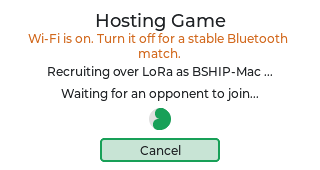
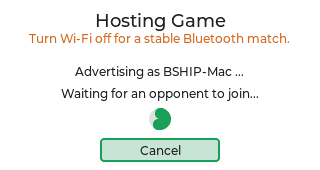
fix(ble): one-line Wi-Fi warning copy, BLE texts in screenshots, shrink join list only when warned

Changed region(s): [[0.0938, 0.1765, 0.9062, 0.2647], [0.125, 0.3824, 0.8438, 0.4706], [0.4375, 0.2941, 0.5625, 0.3529]]

diff --git a/src/view/screens/net_join_screen.cpp b/src/view/screens/net_join_screen.cpp
@@ -133,7 +133,7 @@ void NetJoinScreen::build_content(lv_obj_t* content) {
     // or two Battleship hosts are in range at a time.
     auto* list = lv_obj_create(content);
     lv_obj_remove_style_all(list);
-    lv_obj_set_size(list, LV_PCT(100), 76);  // 3 rows; leaves room for the Wi-Fi warning
+    lv_obj_set_size(list, LV_PCT(100), 100);
     lv_obj_align(list, LV_ALIGN_TOP_MID, 0, 28);
     lv_obj_set_flex_flow(list, LV_FLEX_FLOW_COLUMN);
     lv_obj_set_flex_align(list, LV_FLEX_ALIGN_START, LV_FLEX_ALIGN_CENTER, LV_FLEX_ALIGN_CENTER);
@@ -142,7 +142,8 @@ void NetJoinScreen::build_content(lv_obj_t* content) {
     ui->list = list;
 
     auto* empty = lv_label_create(content);
-    lv_label_set_text(empty, i18n::tr(view_model().net_using_lora()
+    lv_label_set_text(empty, i18n::tr(view_model().net_using_lora() &&
+                                              !viewmodel::BaseViewModel::net_wifi_warn_forced()
                                           ? i18n::StrId::NetJoinScanningLora
                                           : i18n::StrId::NetJoinScanningBle));
     lv_obj_set_style_text_font(empty, i18n::font_for_size(12), 0);
@@ -183,6 +184,15 @@ void NetJoinScreen::build_content(lv_obj_t* content) {
     lv_obj_add_event_cb(back_button, back_cb, LV_EVENT_CLICKED, &view_model());
     lv_group_add_obj(BaseScreen::shared_group(), back_button);
     BaseScreen::enable_arrow_focus_navigation(back_button);
+
+    // While the Wi-Fi warning is visible the list shrinks (3 rows) so the
+    // warning line never overlaps a peer row; otherwise it keeps 100 px.
+    reactive::observe_obj(
+        list, view_model().net_wifi_warn_subject(),
+        [](lv_observer_t* observer, lv_subject_t* subject) {
+            auto* target = lv_observer_get_target_obj(observer);
+            lv_obj_set_height(target, lv_subject_get_int(subject) ? 76 : 100);
+        });
 
     // The delete hook rides on the list container (always present).
     lv_obj_add_event_cb(list, list_delete_cb, LV_EVENT_DELETE, ui);

diff --git a/src/viewmodel/base_viewmodel.cpp b/src/viewmodel/base_viewmodel.cpp
@@ -922,10 +922,14 @@ lv_subject_t* BaseViewModel::net_wifi_warn_subject() {
     return net_wifi_warn_subject_.native();
 }
 
+bool BaseViewModel::net_wifi_warn_forced() {
+    const char* force = std::getenv("BATTLESHIP_FORCE_WIFI_WARN");
+    return force && force[0] == '1';
+}
+
 void BaseViewModel::net_refresh_wifi_warning(uint32_t now) {
     net_wifi_warn_last_ms_ = now;
-    const char* force = std::getenv("BATTLESHIP_FORCE_WIFI_WARN");
-    const bool forced = force && force[0] == '1';
+    const bool forced = net_wifi_warn_forced();
     const bool warn = (net_flow_ble_ && platform::wifi_connected()) || forced;
     const int32_t value = warn ? 1 : 0;
     if (net_wifi_warn_subject_.value() != value) {
@@ -982,7 +986,10 @@ void BaseViewModel::start_network_host() {
 
         const std::string advertised = std::string(battleship::net::kBleNamePrefix) + host_name;
         net_status_subject_.set(
-            i18n::trf(i18n::StrId::NetLoraHostingAs, advertised.c_str()).c_str());
+            i18n::trf(net_wifi_warn_forced() ? i18n::StrId::NetLobbyAdvertisingAs
+                                             : i18n::StrId::NetLoraHostingAs,
+                      advertised.c_str())
+                .c_str());
 
         ensure_net_poll_timer();
         net_refresh_wifi_warning(lv_tick_get());  // 0 on LoRa unless forced for screenshots
@@ -1039,7 +1046,8 @@ void BaseViewModel::start_network_join() {
         }
         net_lora_link_->start_scan(net_lora_now_ms());
         net_hosts_signature_ = 0;
-        net_status_subject_.set(i18n::tr(i18n::StrId::NetJoinScanningLora));
+        net_status_subject_.set(i18n::tr(net_wifi_warn_forced() ? i18n::StrId::NetJoinScanningBle
+                                                                : i18n::StrId::NetJoinScanningLora));
         ensure_net_poll_timer();
         net_refresh_wifi_warning(lv_tick_get());  // 0 on LoRa unless forced for screenshots
         net_hosts_dirty_subject_.set(net_hosts_dirty_subject_.value() + 1);

diff --git a/tests/test_i18n_catalog.cpp b/tests/test_i18n_catalog.cpp
@@ -202,10 +202,10 @@ TEST(I18nCatalog, BleConnectionLostHintDefinedInEveryLanguage) {
 TEST(I18nCatalog, WifiOnWarningDefinedInEveryLanguage) {
     i18n::set_language(Lang::EN);
     EXPECT_STREQ(i18n::tr(StrId::NetWifiOnWarning),
-                 "Wi-Fi is on. Turn it off for a stable Bluetooth match.");
+                 "Turn Wi-Fi off for a stable Bluetooth match.");
     i18n::set_language(Lang::JA);
     EXPECT_STREQ(i18n::tr(StrId::NetWifiOnWarning),
-                 "WiFiがオンです。オフにするとBluetooth対戦が安定します");
+                 "WiFiをオフにするとBluetooth対戦が安定します");
     i18n::set_language(Lang::ZH);
     EXPECT_STREQ(i18n::tr(StrId::NetWifiOnWarning), "WiFi已开启。关闭后蓝牙对战更稳定");
     i18n::set_language(Lang::EN);

diff --git a/src/i18n/strings_ja.cpp b/src/i18n/strings_ja.cpp
@@ -105,7 +105,7 @@ const Table kJapaneseTable = [] {
     t[static_cast<std::size_t>(StrId::NetErrorTitle)] = "通信エラー";
     t[static_cast<std::size_t>(StrId::NetErrorOkBackToTitle)] = "OK - タイトルへ";
     t[static_cast<std::size_t>(StrId::NetErrorConnectionLost)] = "接続が切断されました";
-    t[static_cast<std::size_t>(StrId::NetWifiOnWarning)] = "WiFiがオンです。オフにするとBluetooth対戦が安定します";
+    t[static_cast<std::size_t>(StrId::NetWifiOnWarning)] = "WiFiをオフにするとBluetooth対戦が安定します";
     t[static_cast<std::size_t>(StrId::NetErrorConnectionLostBle)] = "接続が切れました。WiFiをオフにするとBluetooth対戦が安定します";
 
     t[static_cast<std::size_t>(StrId::NetTransportTitle)] = "接続方式";

diff --git a/src/i18n/strings_en.cpp b/src/i18n/strings_en.cpp
@@ -105,7 +105,7 @@ const Table kEnglishTable = [] {
     t[static_cast<std::size_t>(StrId::NetErrorTitle)] = "Network";
     t[static_cast<std::size_t>(StrId::NetErrorOkBackToTitle)] = "OK - back to title";
     t[static_cast<std::size_t>(StrId::NetErrorConnectionLost)] = "Connection lost";
-    t[static_cast<std::size_t>(StrId::NetWifiOnWarning)] = "Wi-Fi is on. Turn it off for a stable Bluetooth match.";
+    t[static_cast<std::size_t>(StrId::NetWifiOnWarning)] = "Turn Wi-Fi off for a stable Bluetooth match.";
     t[static_cast<std::size_t>(StrId::NetErrorConnectionLostBle)] = "Connection lost. Turning Wi-Fi off makes Bluetooth play more stable.";
 
     t[static_cast<std::size_t>(StrId::NetTransportTitle)] = "Connection Type";

diff --git a/src/viewmodel/base_viewmodel.h b/src/viewmodel/base_viewmodel.h
@@ -336,6 +336,10 @@ public:
     /// poll. Test tooling: BATTLESHIP_FORCE_WIFI_WARN=1 forces it on for any
     /// network flow (screenshots on desktop, where BLE does not exist).
     lv_subject_t* net_wifi_warn_subject();
+    /// True when BATTLESHIP_FORCE_WIFI_WARN=1 (screenshot tooling): the net
+    /// screens then also present BLE status texts, so desktop (LoRa sim)
+    /// captures look like the BLE flow.
+    static bool net_wifi_warn_forced();
 
     // ---- Boards the active screens should render ----
     // These dispatch on match_mode(): Game boards for hotseat/VsAi, the
